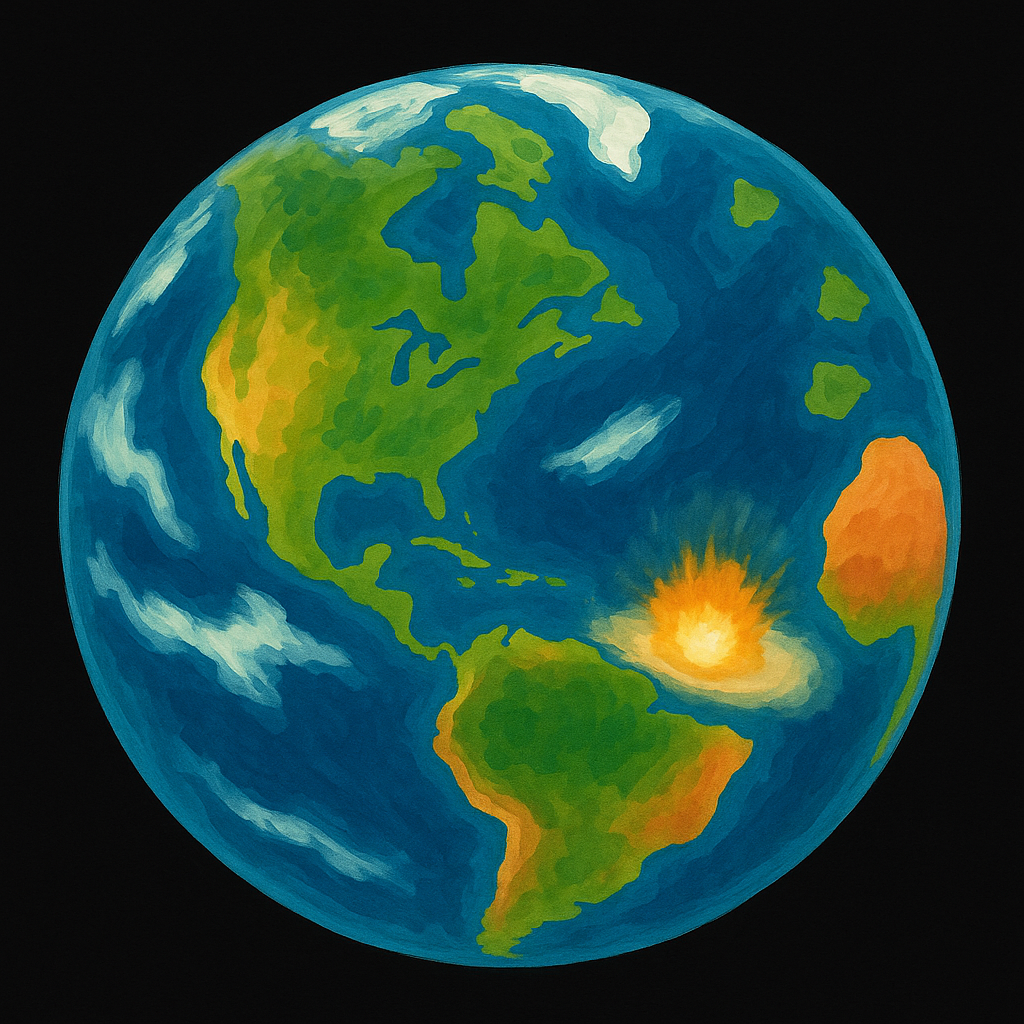
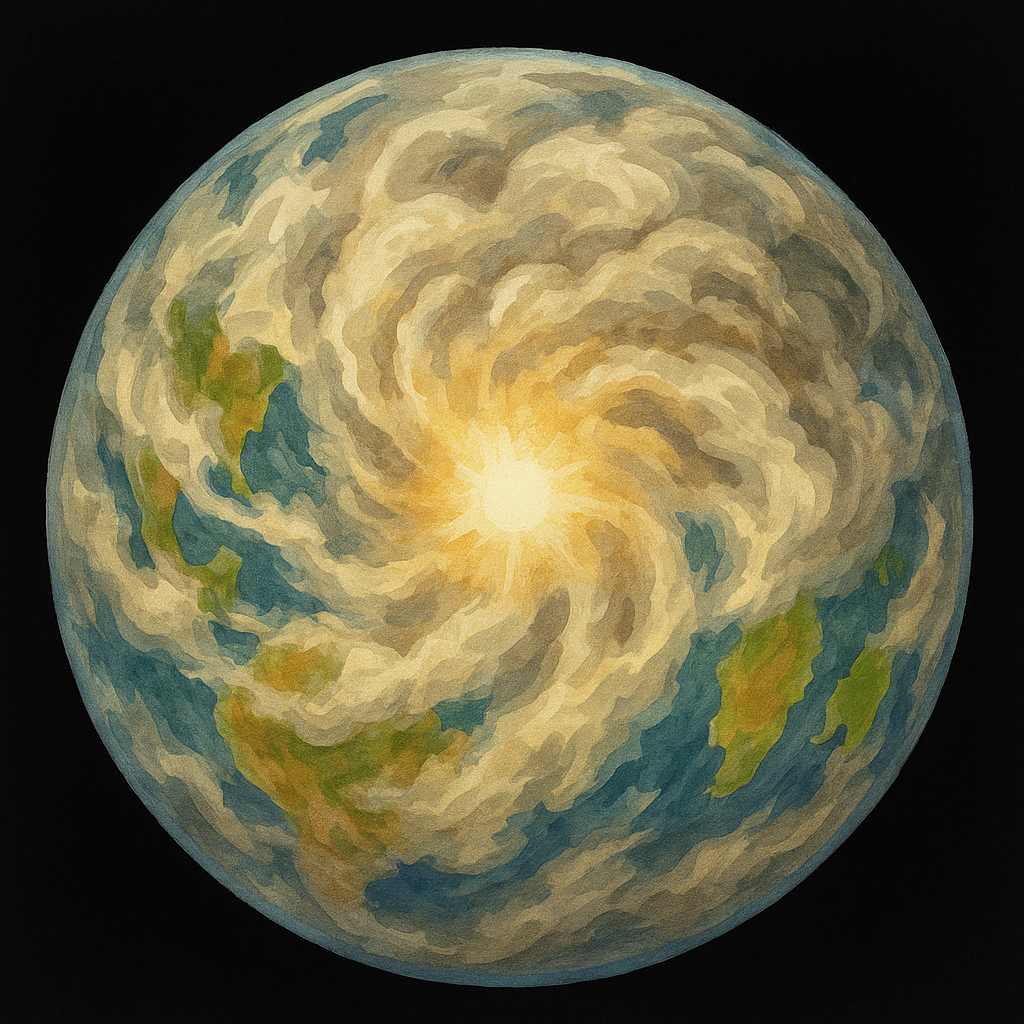
Stop fighting the model's priors, and four of five come back right
$0.42. art.json 13 -> 17. Round 3, and the three subjects that needed a
different KIND of instruction all landed.

Chicxulub is veiled rather than mapped. Three rounds asking for Late Cretaceous
palaeogeography returned the modern world every time, however forcefully the
modern world was forbidden, so the disc is now mostly under cloud and dust with
the flash and its ring at the centre and no identifiable coastline anywhere on
it. There is nothing left to be wrong about. §11's own observation was that
three of the four planets already hide their geography behind the state they
depict; this makes it four, and it is honest — a real Earth from space is two
thirds cloud before anything hits it.

Rodinia is a specimen of folded gneiss. Prompted as a landmass it drew Africa,
with Madagascar, twice — the second time against a negative that said "must not
be Africa or resemble Africa". So the subject is no longer the shape of the
supercontinent but the rock its assembly makes: the Grenville orogeny, ~1.1-0.9
Ga, is Rodinia coming together, and folded gneiss is what that collision leaves.
A specimen, which is the register every other subject on the page is already in.

The phytosaur and the acid-rain rock came back on wording alone: the rock keys
correctly and has its rain, and the phytosaur has its narial mound, its whole
tail, and margin on every side of its frame.

Tiktaalik still does not. Leading with the head fixed the head — flat, wide,
[…]

diff --git a/scripts/bake-art.ts b/scripts/bake-art.ts
@@ -51,21 +51,7 @@ const ART_JSON = join(ROOT, 'src', 'data', 'art.json');
  * from art.json. The reason lives on the arrival's own `negative` field in
  * timeline.json (redo instructions), not duplicated here.
  */
-const NOT_VERIFIED = new Set([
-  'chicxulub',
-  'tiktaalik',
-  'rodinia',
-  'triassic-jurassic-extinction',
-  // Passes the 3:1 gate at 8.67:1 and still cannot ship: §11 says a near-black
-  // region is punched out of the artwork by the luminance key, and states it
-  // of the planet discs. It is true of EVERY cut-out. The acid-rain rock was
-  // the first dark subject drawn, its pits keyed to alpha 0, and `haloRings`
-  // then filled those interior holes with the light halo — it bakes as a
-  // white-speckled golf ball. The gate cannot see this, because a hole full of
-  // halo is exactly what the gate is measuring for at the OUTER boundary. The
-  // remedy is §11's: the art is revised, lighter, with no black in it.
-  'steam-and-acid-rain',
-]);
+const NOT_VERIFIED = new Set(['tiktaalik']);
 
 interface ManifestEntry {
   /** Relative to project root. */
@@ -129,15 +115,26 @@ const MANIFEST: ManifestEntry[] = [
     isPlanet: false,
   },
   {
-    // Sheet 6, 2026-07-31 — the redo sheet, approved batch. Supersedes
-    // sheet-04's tiktaalik and rodinia and sheet-05's phytosaur and rock.
-    file: 'art/source/sheet-06-tiktaalik-rodinia-phytosaur-acidrock.png',
+    // Sheet 7, 2026-07-31, approved batch — the second redo of these four.
+    // (Sheet 6 is not listed: every one of its quadrants was superseded here,
+    // so it contributes nothing. It is in the history, not in the build.)
+    //
+    // Rodinia arrives here as a specimen of folded gneiss. Prompted as a
+    // landmass silhouette it drew the modern African continent twice, and a
+    // negative naming Africa did not stop it — so the subject became the rock
+    // that continental collision makes (the Grenville orogeny, ~1.1–0.9 Ga, is
+    // Rodinia's assembly) rather than the shape of the supercontinent.
+    file: 'art/source/sheet-07-tiktaalik-gneiss-phytosaur-acidrock.png',
     quadrants: ['tiktaalik', 'rodinia', 'triassic-jurassic-extinction', 'steam-and-acid-rain'],
     isPlanet: false,
   },
   {
-    // Chicxulub, 2026-07-31 — a planet single, not a sheet quadrant. Second
-    // round, and it drew the modern world again. Excluded.
+    // Chicxulub, 2026-07-31 — a planet single, not a sheet quadrant, and the
+    // third round. Prompted for Late Cretaceous palaeogeography it drew the
+    // modern world every time, so the disc is now veiled by the event itself:
+    // cloud and dust over most of it, no identifiable coastline, nothing to be
+    // wrong about. §11's own note is that three of the four planets already
+    // hide their geography behind the state depicted; this makes it four.
     file: 'art/source/planet-chicxulub.png',
     quadrants: ['chicxulub'],
     isPlanet: true,
